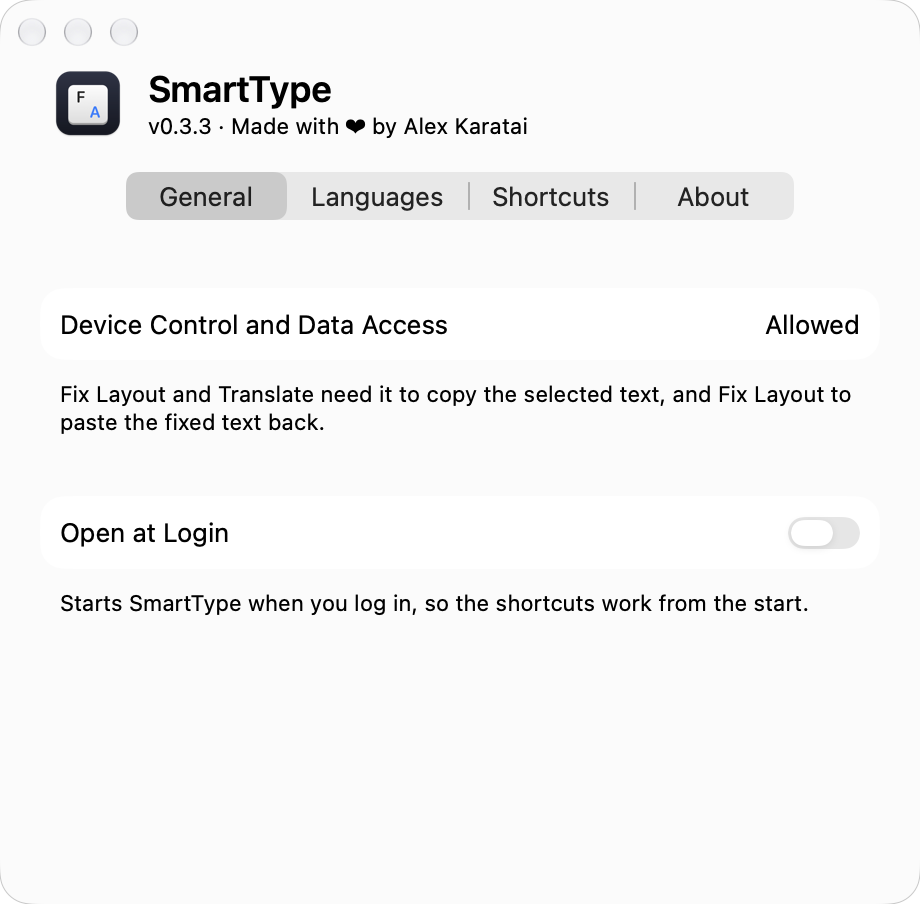
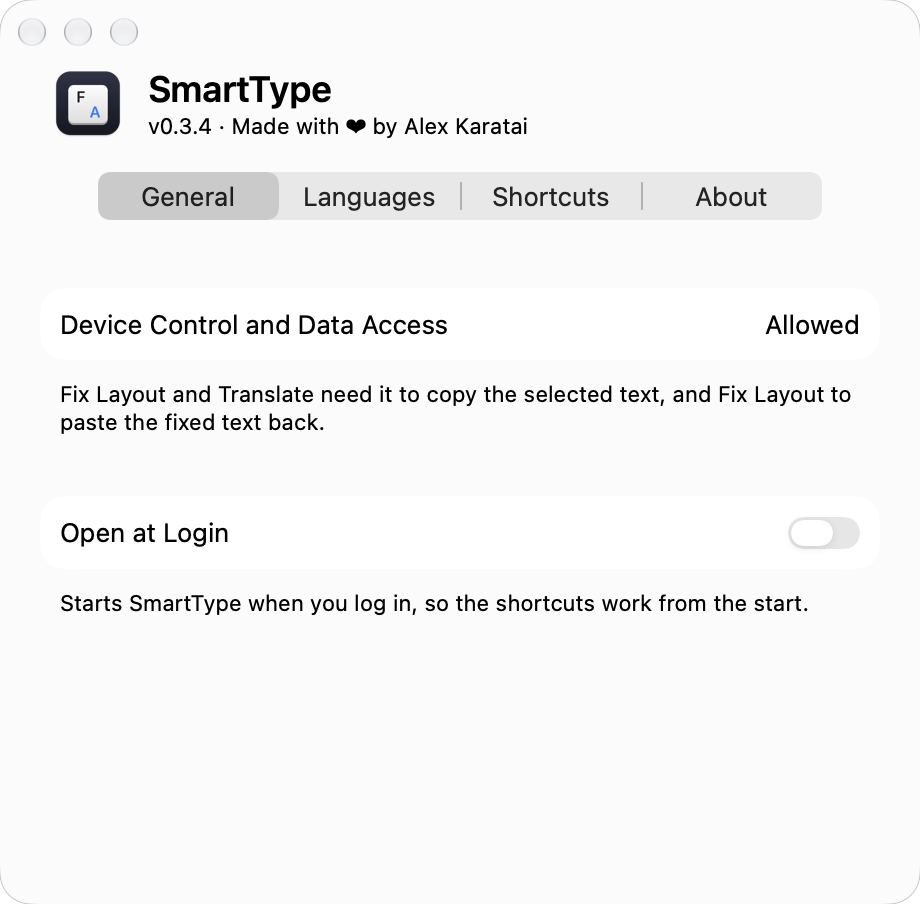
Bump version to 0.3.4 and update changelog, README, and Info.plist

diff --git a/README.md b/README.md
@@ -9,7 +9,7 @@
 </p>
 
 <p align="center">
-  <img src="https://img.shields.io/badge/version-0.3.3-blue?style=flat-square" alt="Version 0.3.3"/>
+  <img src="https://img.shields.io/badge/version-0.3.4-blue?style=flat-square" alt="Version 0.3.4"/>
   <img src="https://img.shields.io/badge/macOS-14.0%2B-000000?style=flat-square&logo=apple&logoColor=white" alt="macOS 14+"/>
   <img src="https://img.shields.io/badge/Apple%20silicon-only-000000?style=flat-square" alt="Apple silicon only"/>
   <img src="https://img.shields.io/badge/Swift-6.2-F05138?style=flat-square&logo=swift&logoColor=white" alt="Swift 6.2"/>

diff --git a/CHANGELOG.md b/CHANGELOG.md
@@ -7,6 +7,8 @@ and this project adheres to [Semantic Versioning](https://semver.org/spec/v2.0.0
 
 ## [Unreleased]
 
+## [0.3.4] — 2026-11-05
+
 ### Added
 
 - After an update, SmartType tells you when macOS has turned its permission off. Every release
